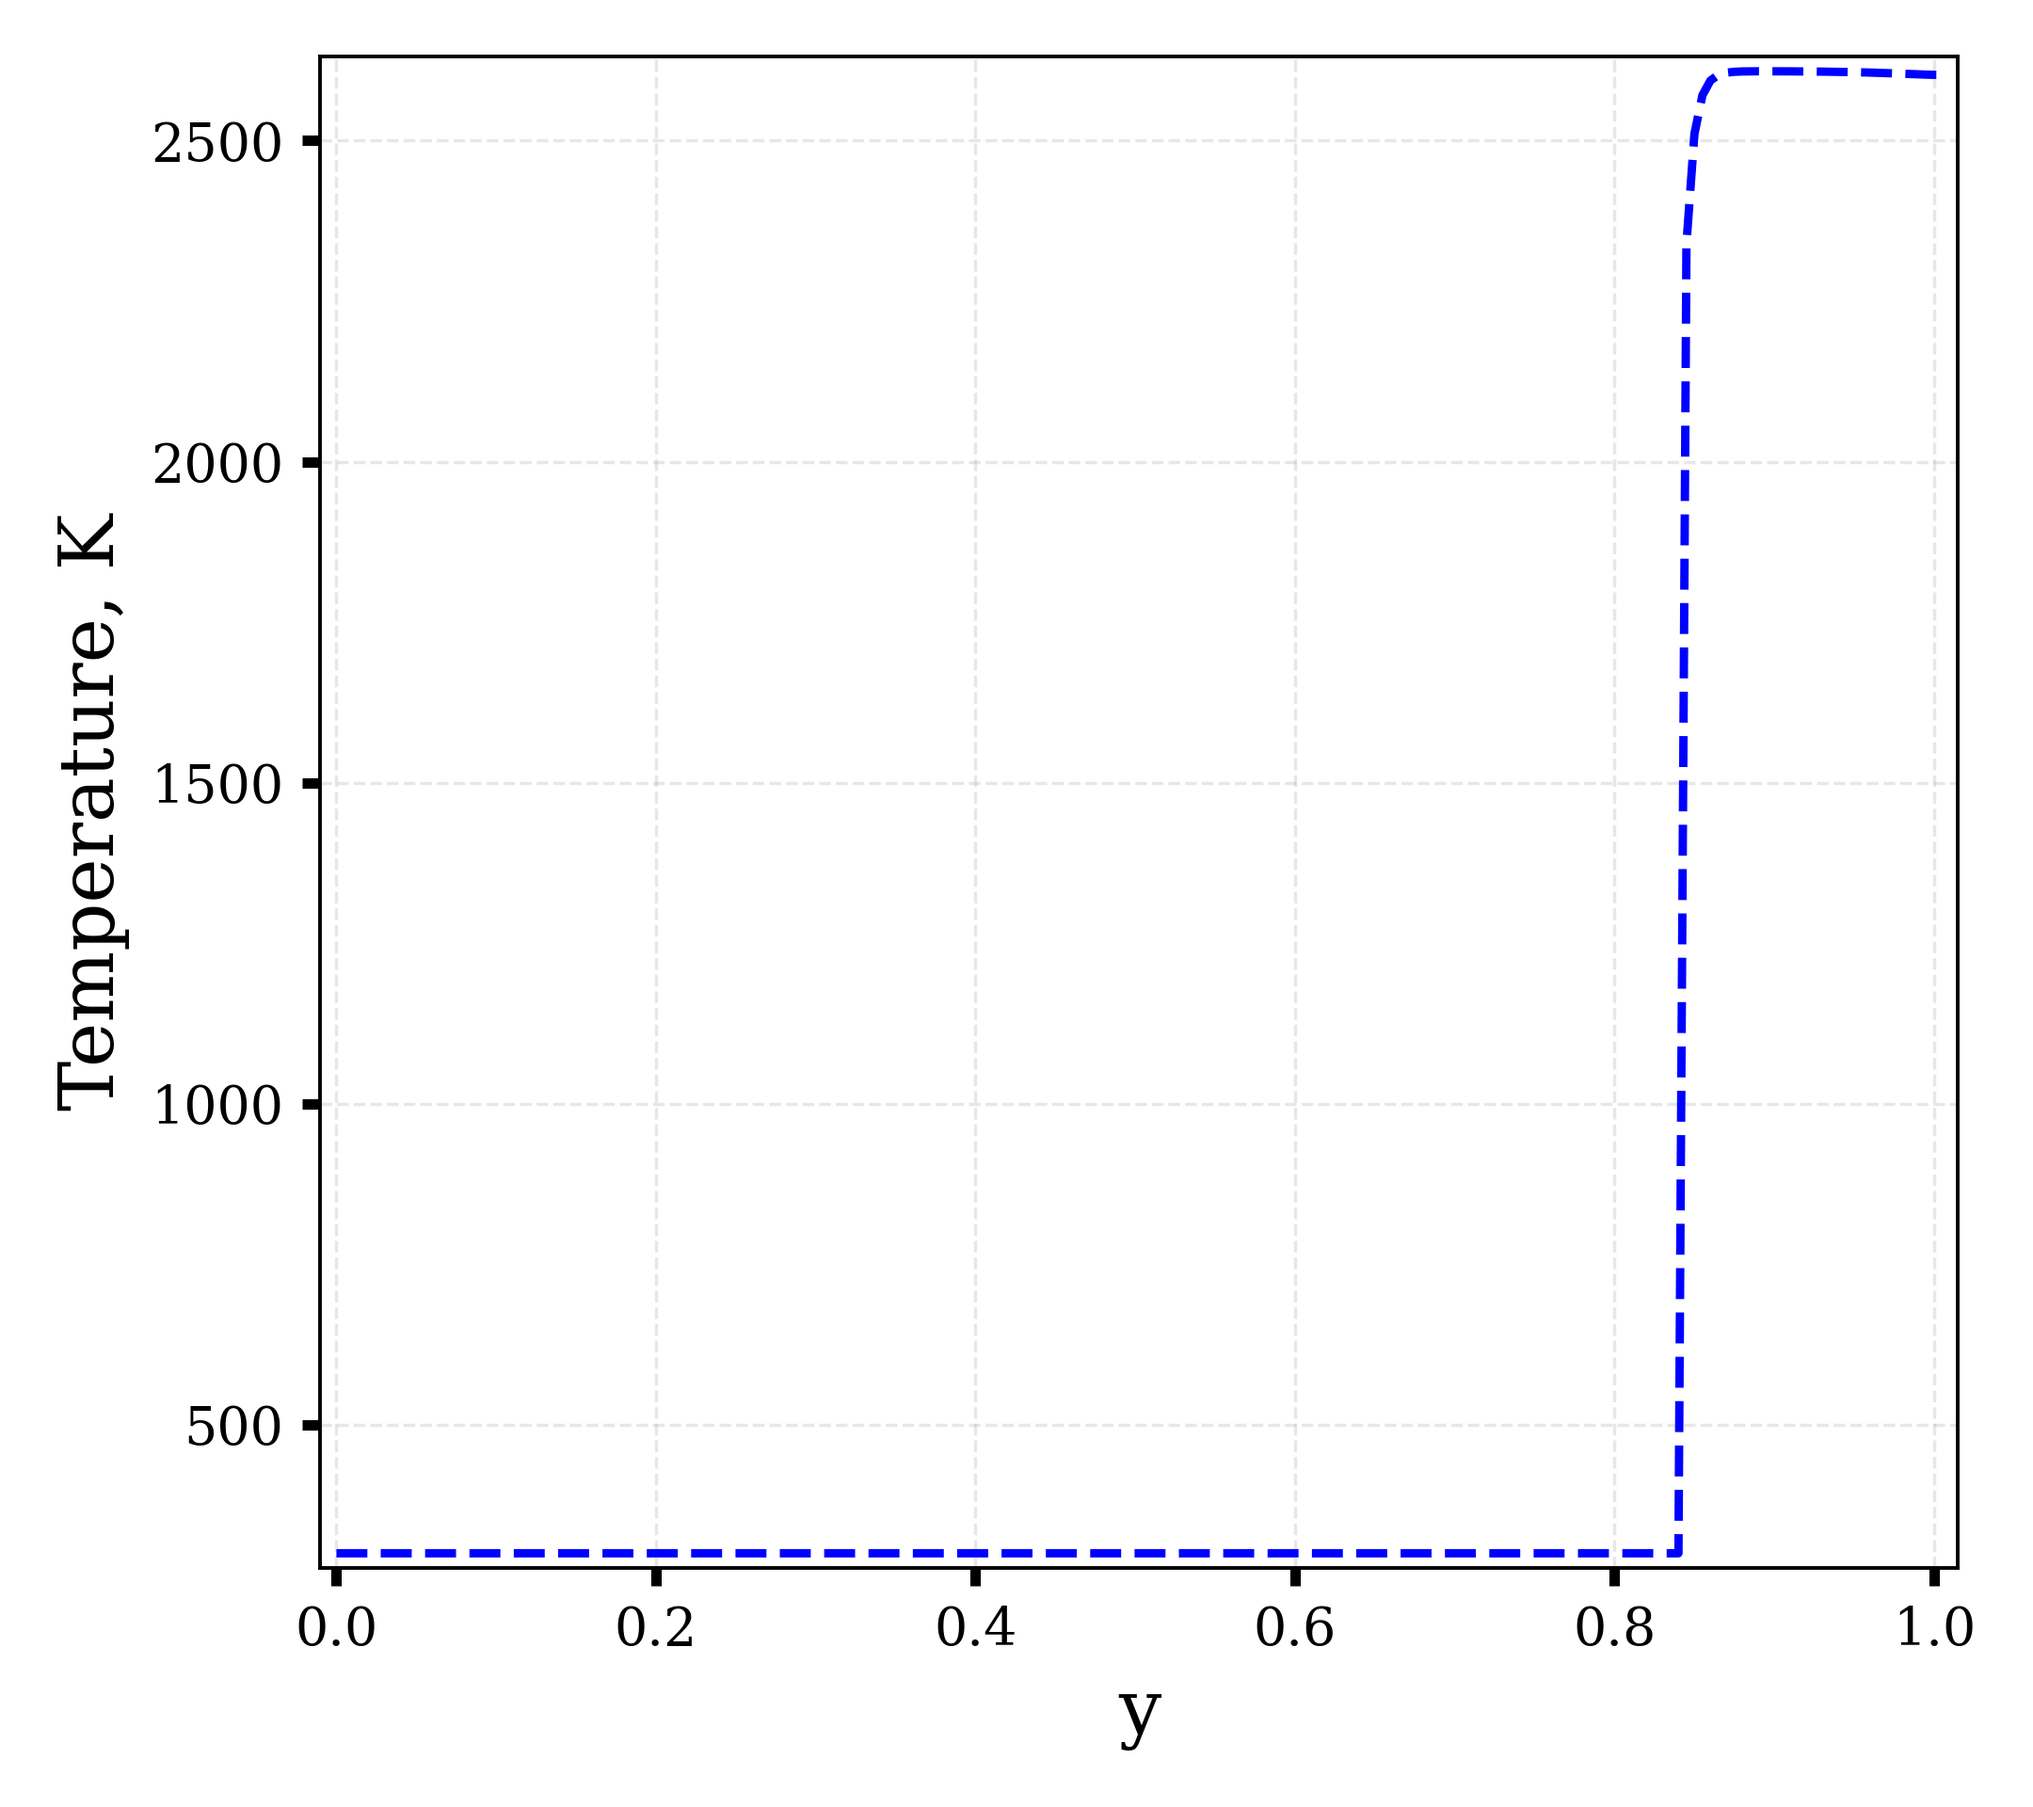
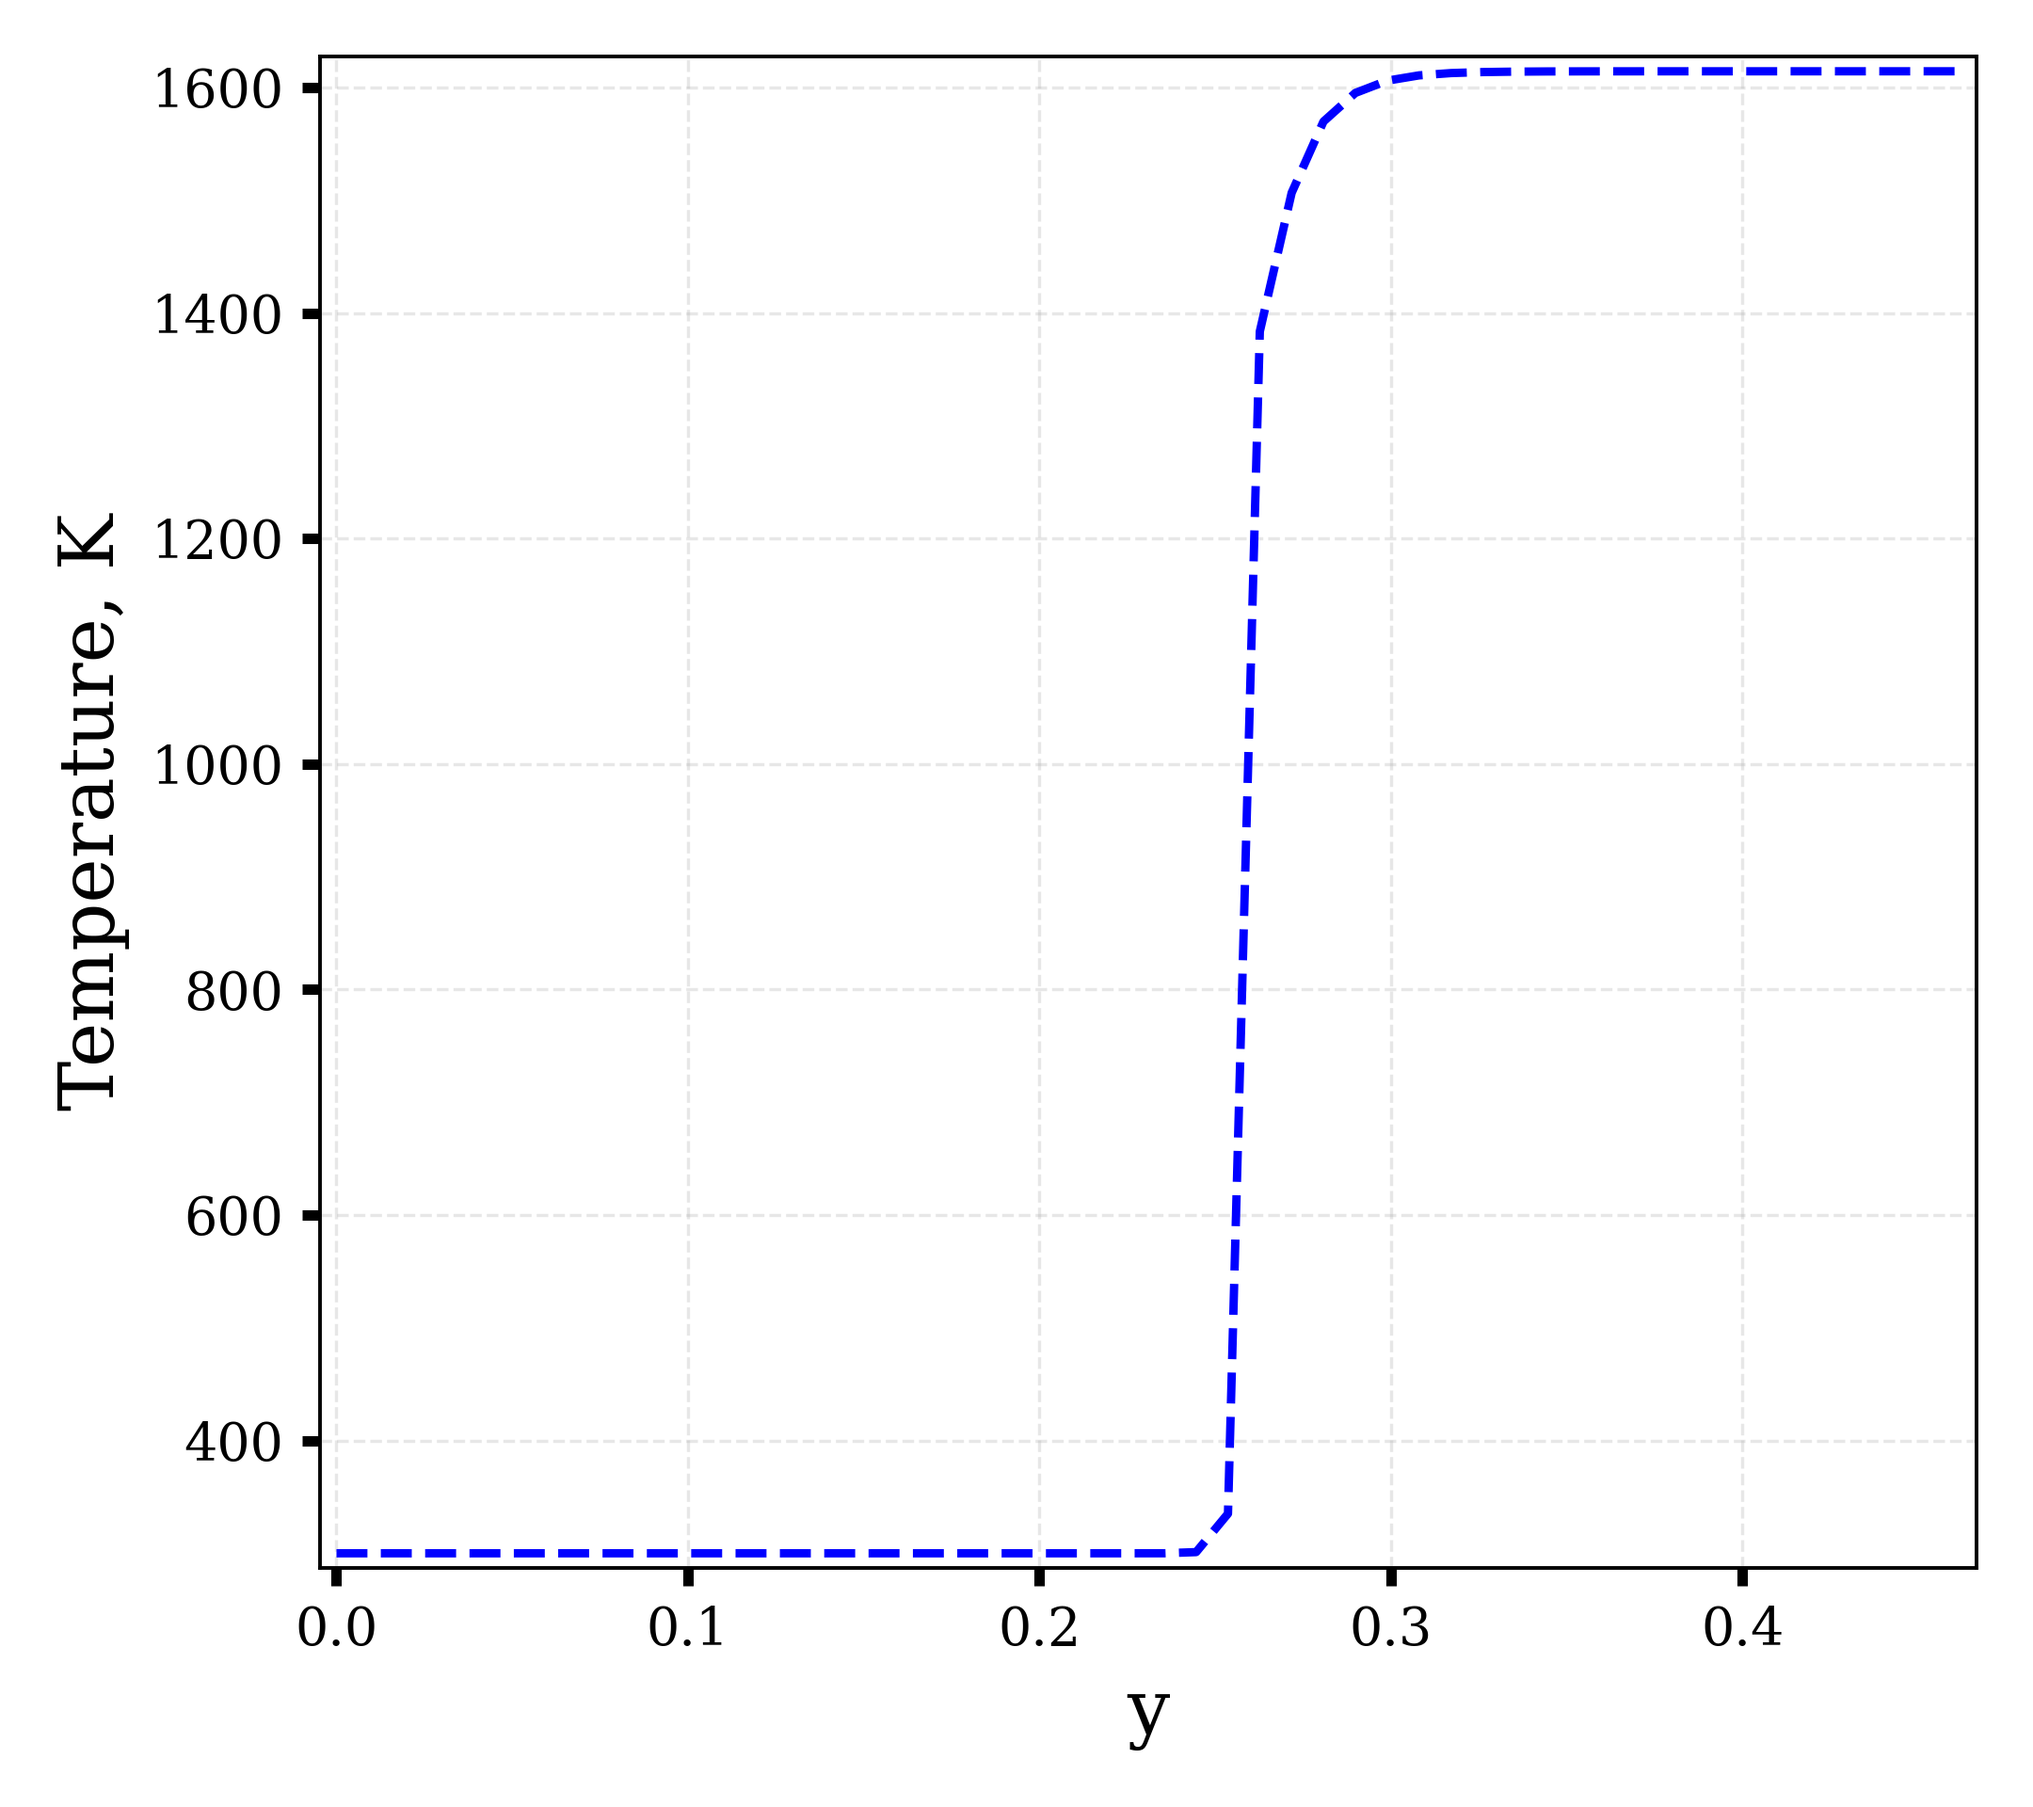
test case added

diff --git a/example-shockwave/shockwave-solver-lib_main.cpp b/example-shockwave/shockwave-solver-lib_main.cpp
@@ -56,14 +56,14 @@ int main()
     /////////////////////////////////////////////////////////////
     ///
     // рассматриваем уравнения граничных условий, пусть left = 0, right = n:
-    double velocity_left = 1615; // shock wave, so the velocity is supersonic, let's set it to 1615 m/s ~ 5 Ma for argon at room temperature
-    double density_left = 1.601547; // kg/m^3, calculated for atmospheric pressure
+    double velocity_left = 1227.4; // shock wave, so the velocity is supersonic, let's set it to 1615 m/s ~ 5 Ma for argon at room temperature
+    double density_left = 0.00010666; // kg/m^3, calculated for atmospheric pressure
     double T_left = 300; // Kelvin
     double pressure_left = UniversalGasConstant * T_left * density_left / argon.molarMass;
 
-    double velocity_right = 452.3453;
-    double density_right = 5.717973;
-    double T_right = 2605.026;
+    double velocity_right = 370.7071;
+    double density_right = 0.000353;
+    double T_right = 1612.93;
     double pressure_right = UniversalGasConstant * T_right * density_right / argon.molarMass;
 
     BorderConditionShockwave borderConditionShockwave;
@@ -113,16 +113,21 @@ int main()
     startParamShockwaveAr.setDistributionParameter(leftStartParam, rightStartParam);
 
     //////////////////////////////////////////////////////////////
+    ///
+    ///
+
+    double viscocity_argon = 22.7e-5; // approximate argon viscocity at low prassure
+    double MFP = viscocity_argon / pressure_left * sqrt(M_PI * UniversalGasConstant * T_left / argon.molarMass); // mean free path length
 
     solverParams solParam;
-    solParam.NumCell     = 202;    // Число расчтеных ячеек с учетом двух фиктивных ячеек
+    solParam.NumCell     = 1e2 / 2 + 2;    // Число расчтеных ячеек с учетом двух фиктивных ячеек
     solParam.Gamma    = 1.67;   // Ar
     // solParam.Gamma    = 1.32;   // O2_O
     solParam.CFL      = 0.9;    // Число Куранта
     solParam.MaxIter     = 10000000; // максимальное кол-во итареций
-    solParam.Ma       = 5;    // Число маха
+    solParam.Ma       = 3.8;    // Число маха
 
-    double precision = 1E-5; // точность
+    double precision = 1E-7; // точность
     Observer watcher(precision);
     watcher.setPeriodicity(10000);
 
@@ -136,7 +141,7 @@ int main()
 
     // GodunovSolver solver(Ar ,solParam, SystemOfEquationType::couette2Alt, RiemannSolverType::HLLESolver);
     GodunovSolver solver(Ar ,solParam, SystemOfEquationType::shockwave1, RiemannSolverType::HLLESolver);
-    double h = 1;
+    double h = 30 * MFP; // m
     writer.setDelta_h(h / (solParam.NumCell - 2));
     solver.setWriter(&writer);
     solver.setObserver(&watcher);

diff --git a/src/godunovsolver.cpp b/src/godunovsolver.cpp
@@ -43,7 +43,7 @@ void GodunovSolver::solve()
         //writePoints(T*1000000); // микросек
 
         double max;
-        if(i%100000 == 0)
+        if(i%1000 == 0)
         {
             std::cout<<i<<" iteration"<<std::endl;
             writePoints(T*1000000); // микросек

diff --git a/example-shockwave/nonlinear_border_system_solver.py b/example-shockwave/nonlinear_border_system_solver.py
@@ -16,9 +16,9 @@ kB = 1.38064852e-23
 
 # set parameters
 speed_of_sound_ar_room = 323 # m/s
-Ma = 5
+Ma = 3.8
 T_left = 300 # K
-pressure = 100000 # Pa
+pressure = 6.66 # Pa
 
 # calculated parameters
 velocity_left = Ma * speed_of_sound_ar_room
